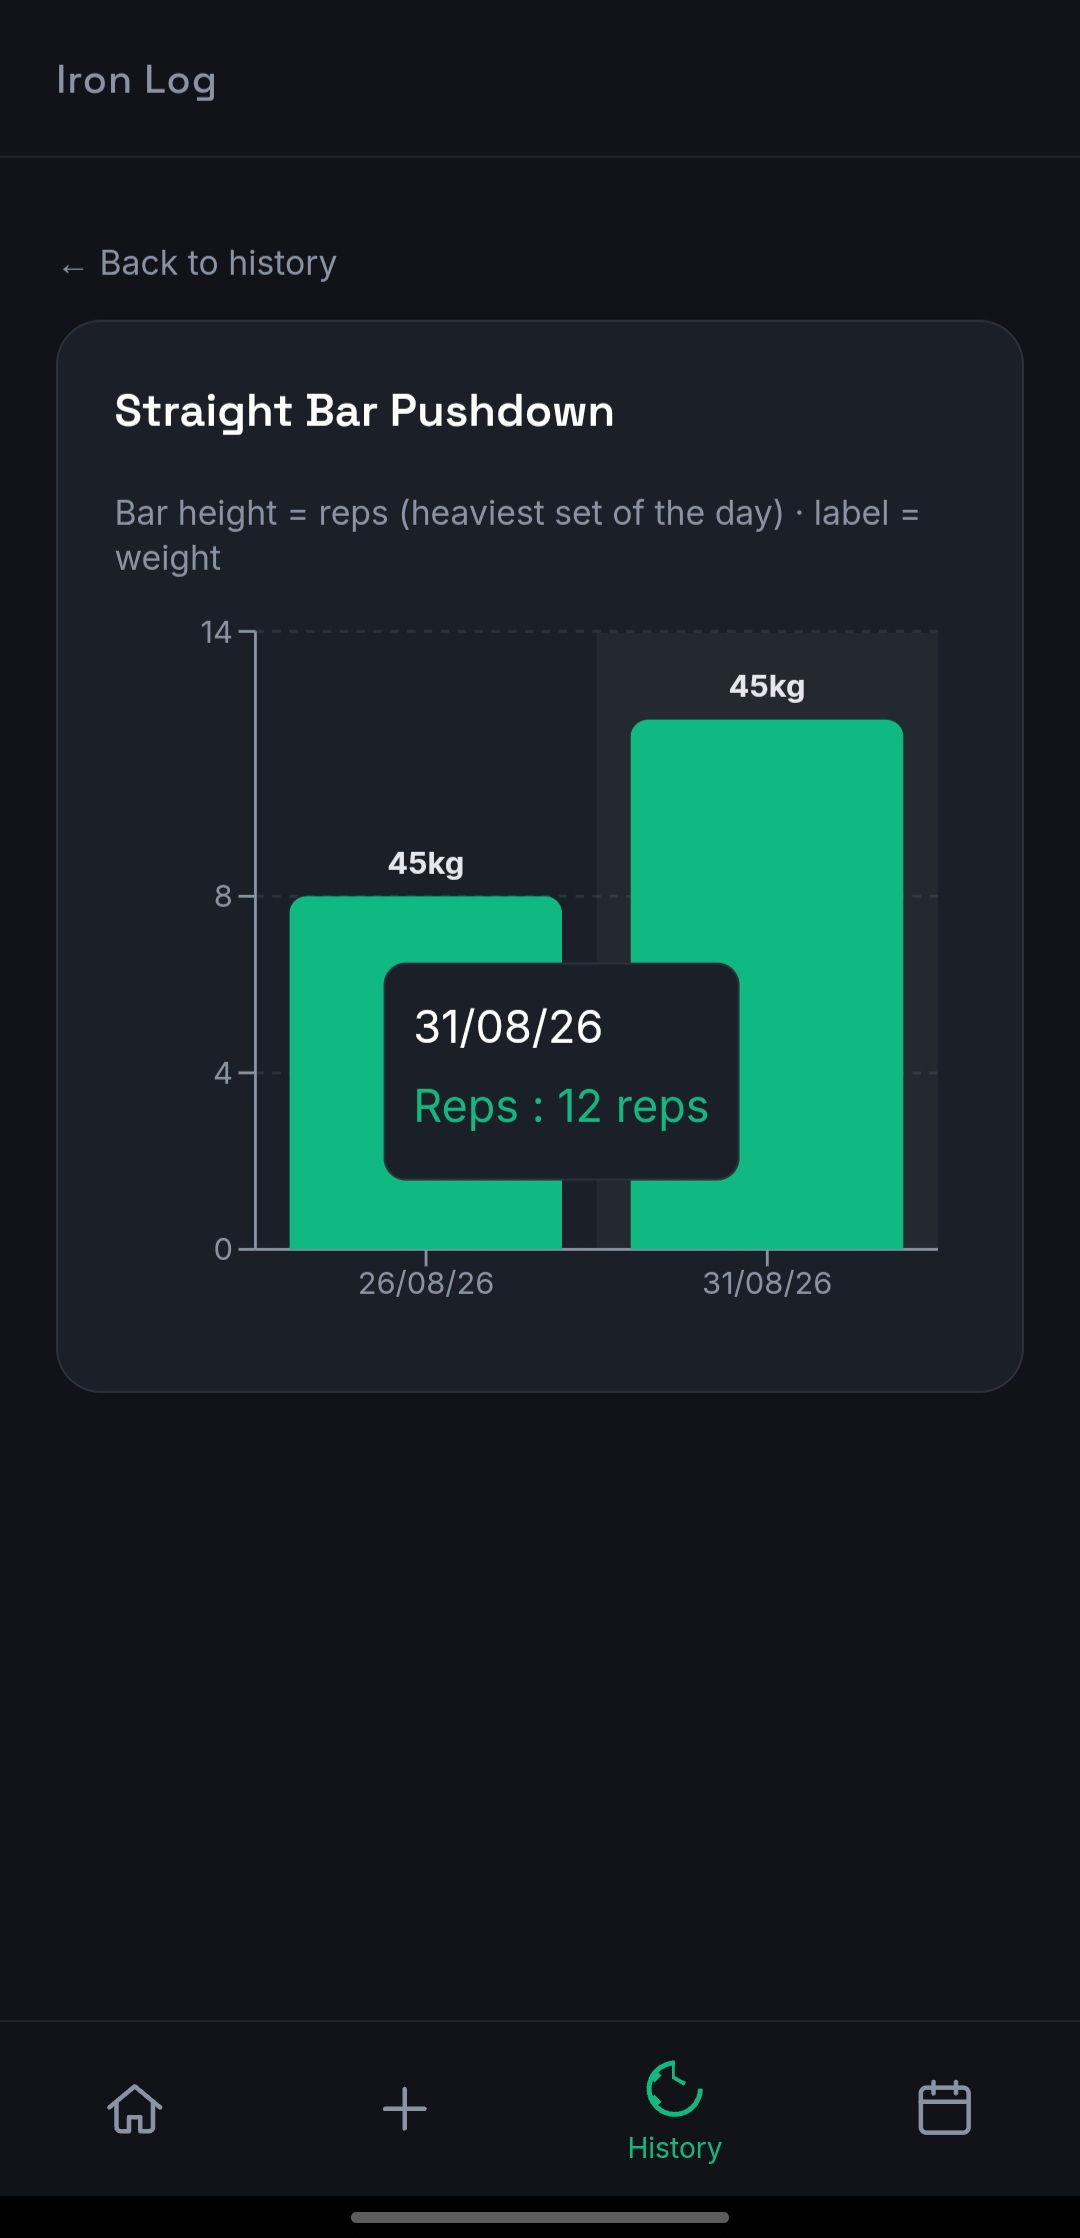
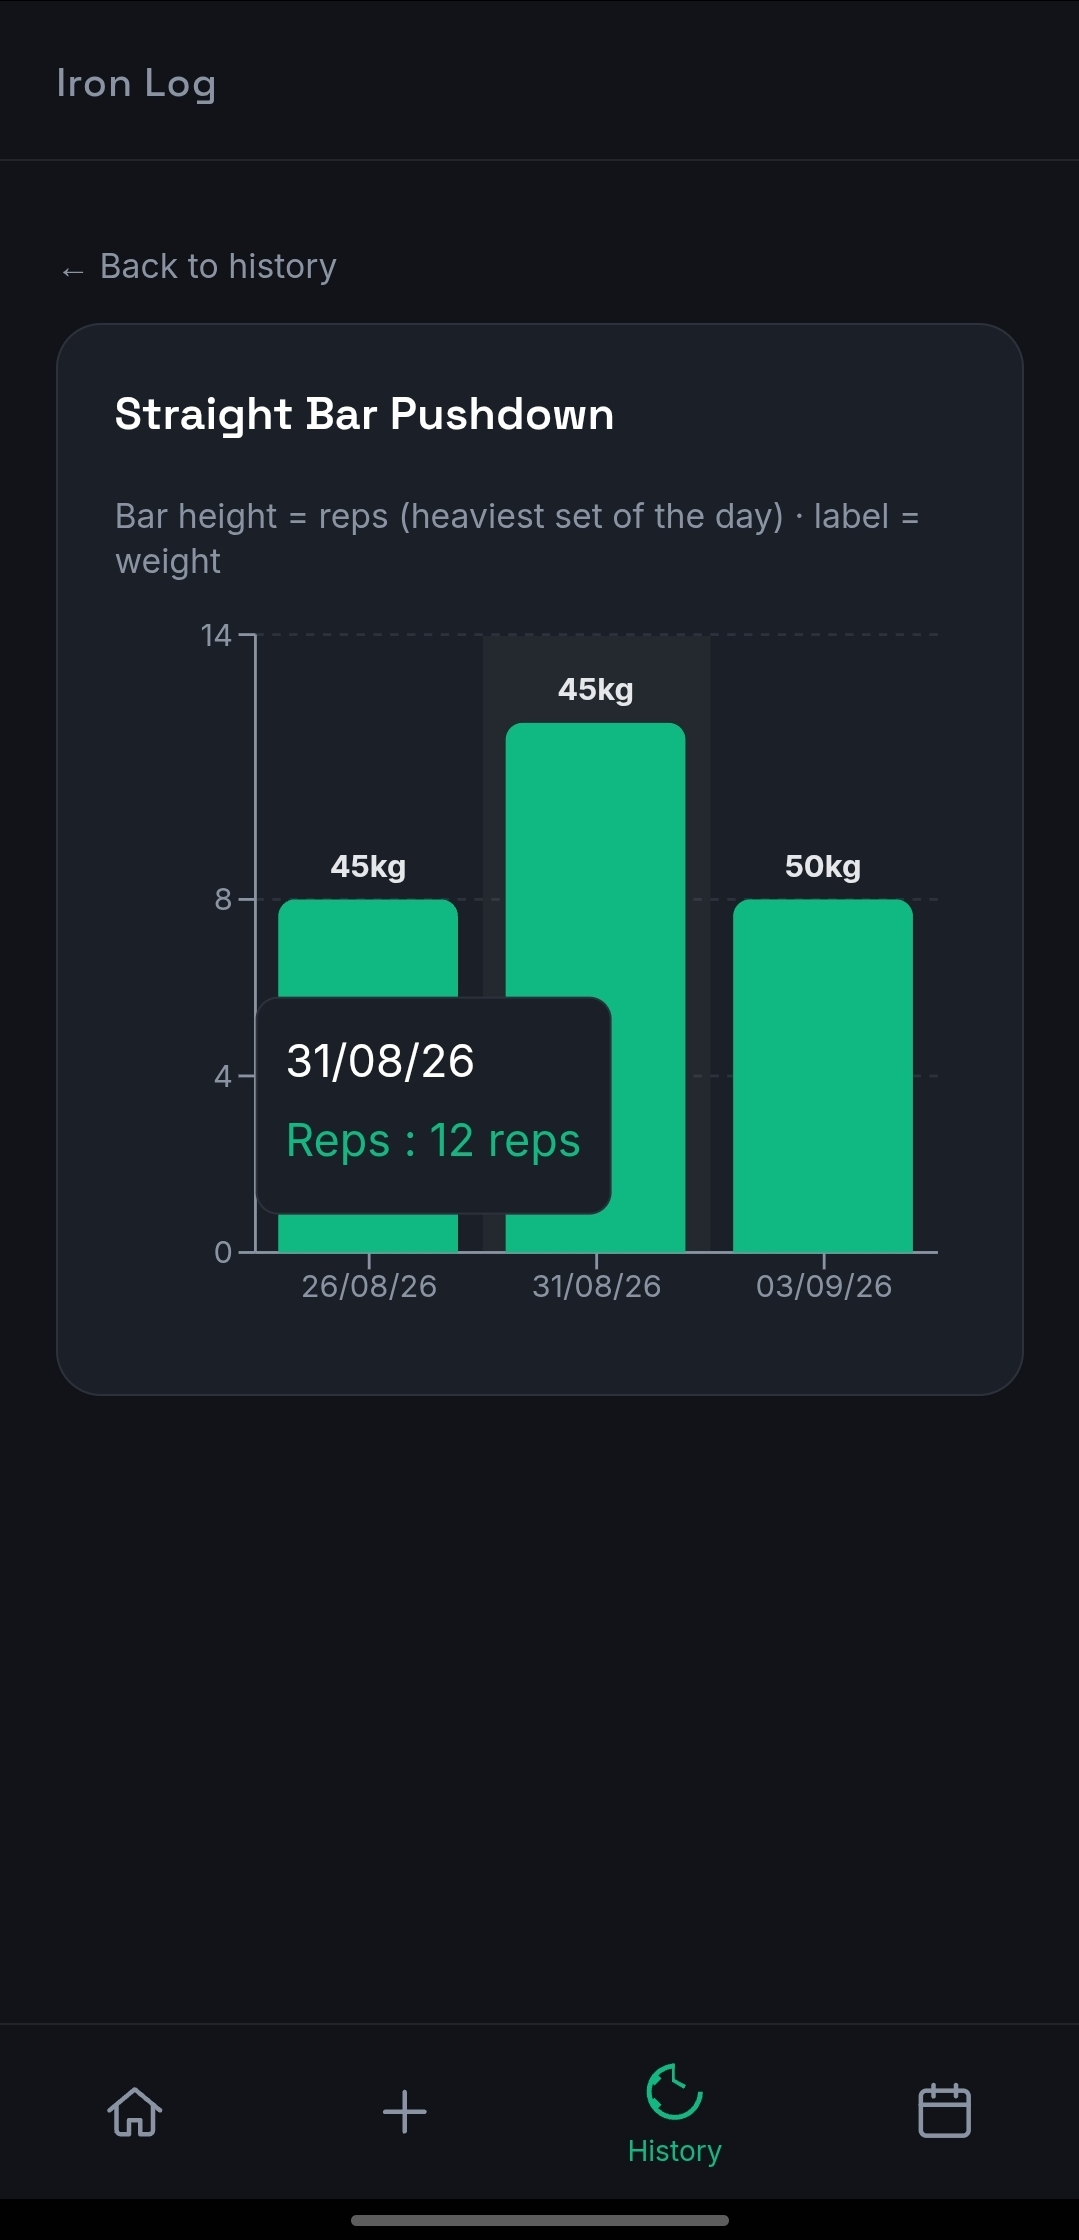
Minor Changes

diff --git a/README.md b/README.md
@@ -1,4 +1,4 @@
-# 🏋 Iron Log
+# Iron Log
 
 **A fully offline gym tracker for Android — no backend, no internet required.**
 
